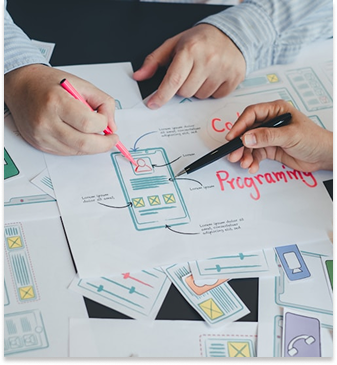
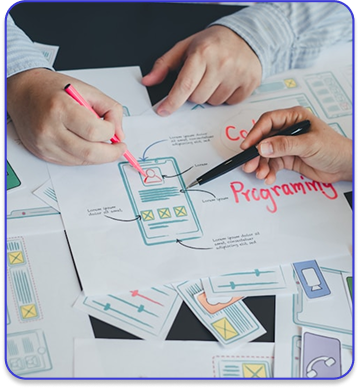
changes

diff --git a/Frontend/components/Casestudy/userstoryboard.tsx b/Frontend/components/Casestudy/userstoryboard.tsx
@@ -12,29 +12,29 @@ interface UserStoryboardProps {
 
 const UserStoryboard: React.FC<UserStoryboardProps> = ({ cards }) => {
   return (
-    <div className="px-[5%] py-6  flex flex-col items-center justify-center">
+    <div className="px-[5%] py-6 flex flex-col items-center justify-center">
       <h1 className="text-[24px] md:text-[56px] font-inter font-bold text-white">
         User Storyboard
       </h1>
       <div className="w-[200px] sm:w-[380px] h-[2px] bg-white mx-auto mt-0" />
       <div className="w-[160px] sm:w-[340px] h-[2px] bg-white mx-auto mt-2" />
 
-      {/* Outer rounded container with bg clipping */}
+      {/* Outer rounded container with bg */}
       <div
-        className="mt-12 rounded-2xl overflow-hidden w-full py-16 
+        className="mt-12 rounded-2xl overflow-hidden w-full py-16 px-6
              bg-[url('/casestudy/storybg.png')] bg-cover bg-center bg-no-repeat"
       >
-        <div className="grid grid-cols-1 md:grid-cols-2 lg:grid-cols-3 gap-6 ">
+        <div className="grid grid-cols-1 md:grid-cols-2 lg:grid-cols-3 gap-6">
           {cards.map((card, index) => (
             <div
               key={index}
-              className="flex flex-col items-center text-center rounded-xl   "
+              className="flex flex-col items-center text-center rounded-xl p-6"
             >
-              <div className="border border-[#3B3BD3] rounded-lg overflow-hidden w-full h-full lg:w-[349px] lg:h-[320px] mb-6">
+              <div className="w-full h-full lg:w-[349px] lg:h-[370px] mb-4">
                 <img
                   src={card.image}
                   alt={card.description}
-                  className="w-full h-full object-cover"
+                  className="w-full h-full object-cover rounded-lg"
                 />
               </div>
               <p className="text-gray-300 text-sm md:text-[20px] mt-2 font-inter">
